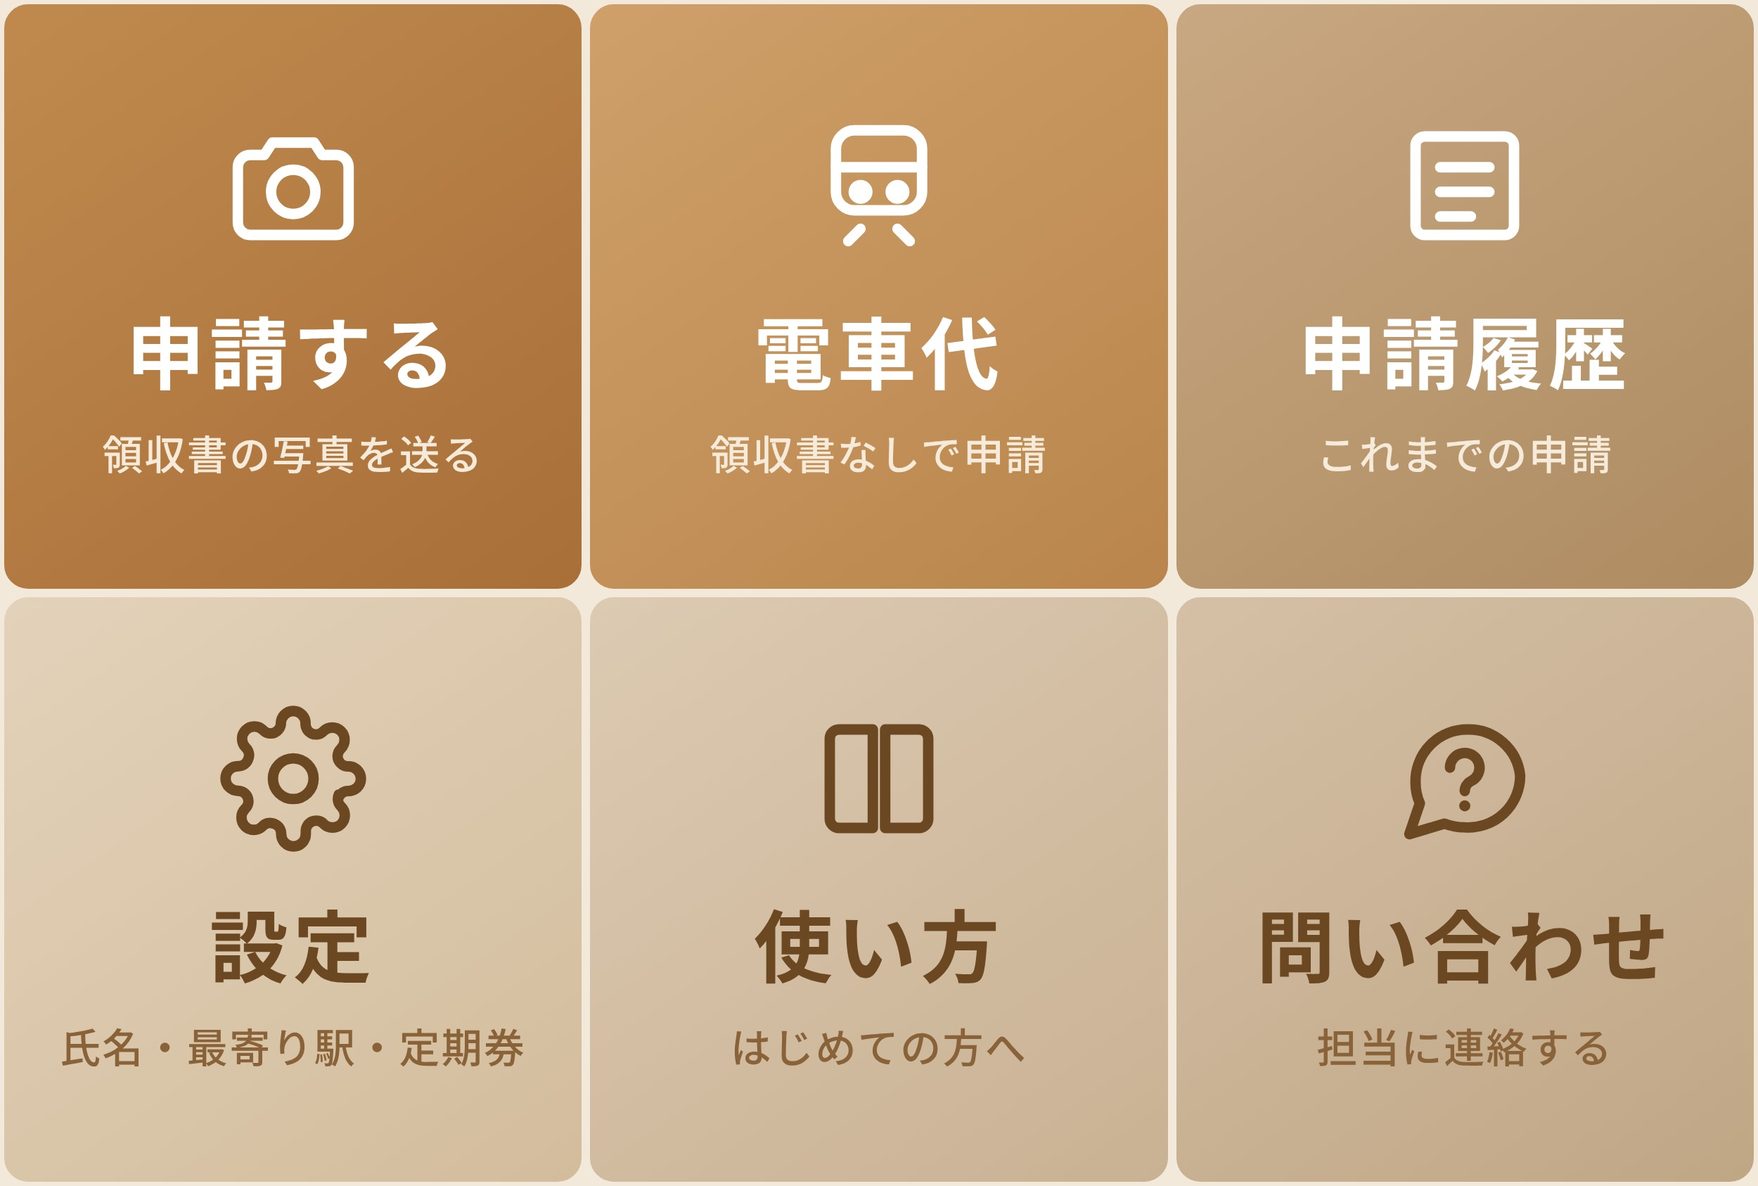
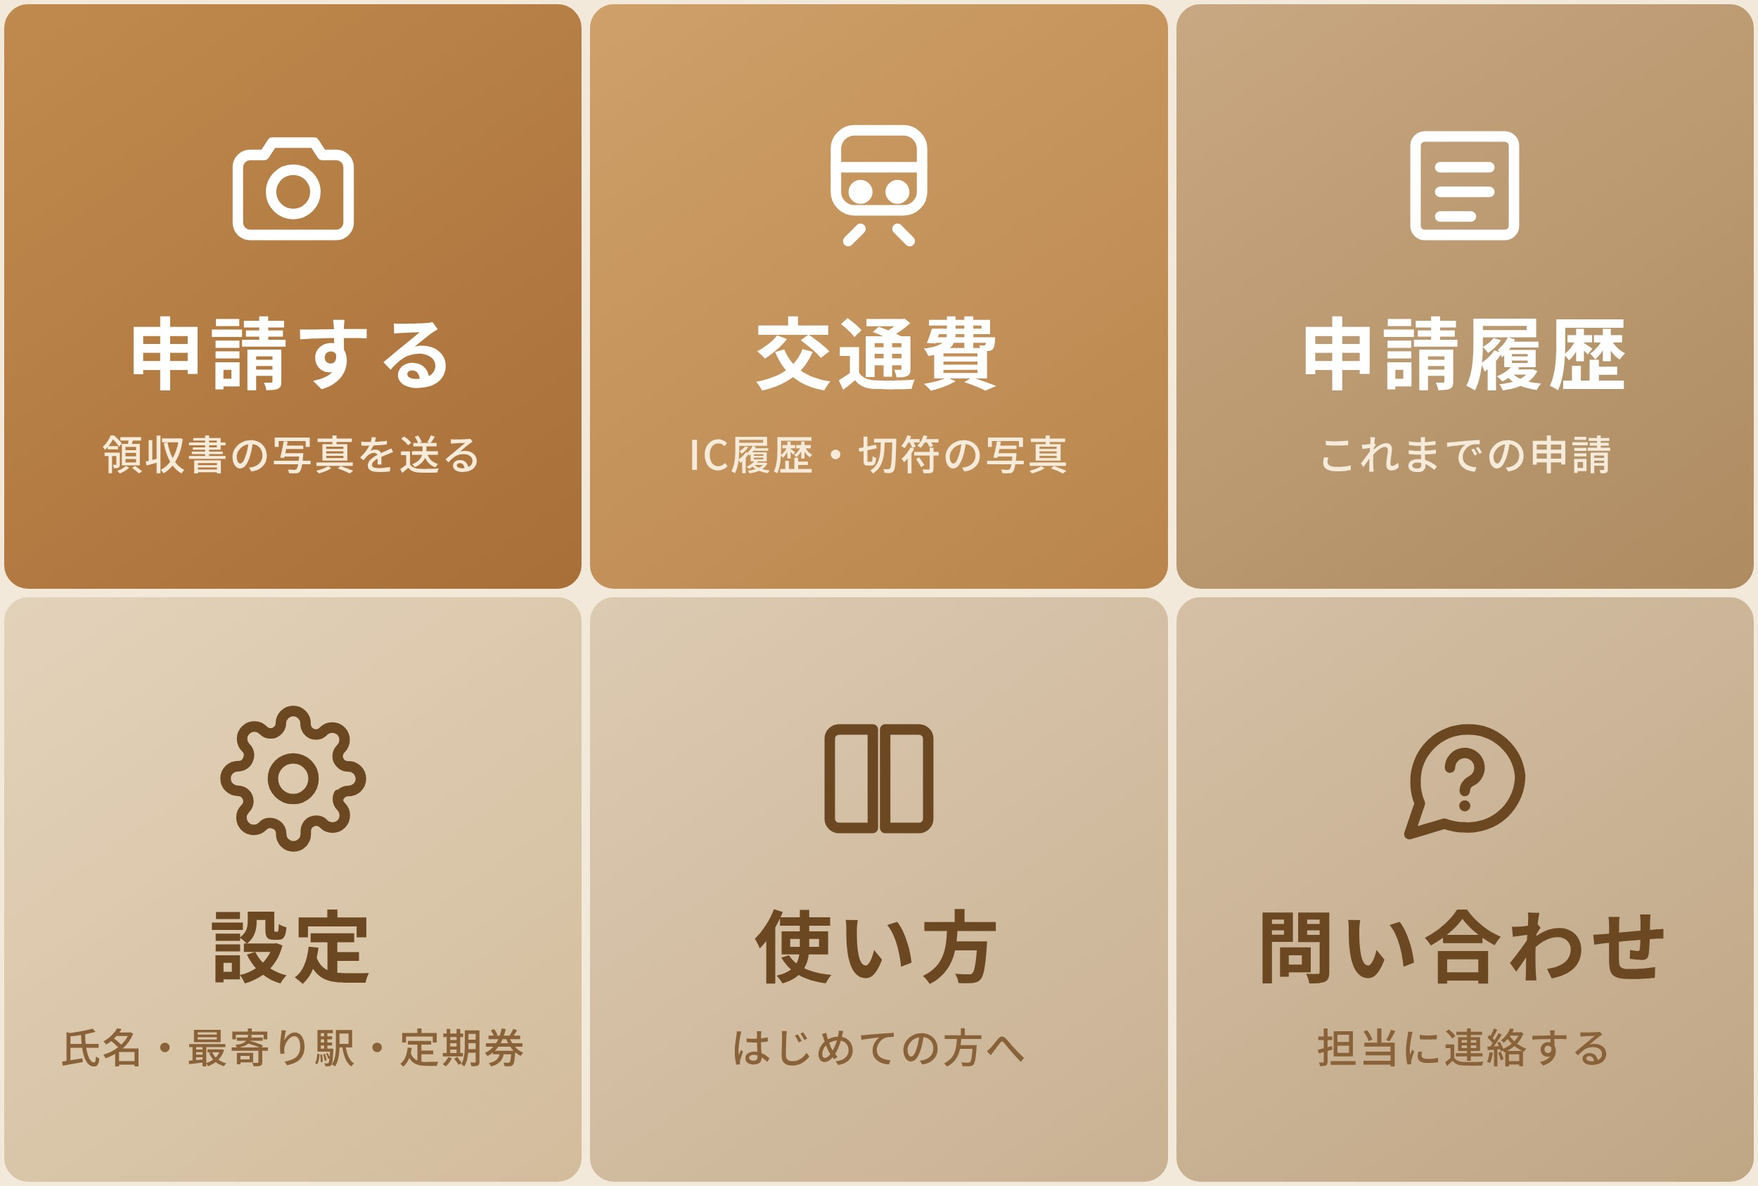
交通費を記録の写真からの申請に一本化し、定期券区間を確認する
運用では領収書（ICカード履歴・切符）が必要だが、「電車代」は
金額をAIで推定し写真を残さない方式だった。記録が残らず、
定期券区間の扱いも曖昧になるため作り直した。

- リッチメニューの「電車代」を「交通費」に変更。押すと
  ICカード履歴・切符・領収書・航空券の写真を送る案内を出す
- 電車・地下鉄・バス・飛行機・新幹線をすべて「交通費」に集約。
  遠方の出張でも区分を増やさずに申請できる
- 定期券を登録している方にだけ、交通費の申請時に1タップ確認を挟む
  「この金額に定期券区間の運賃は含まれていますか？」
  ICカードは定期区間を引き落とさないため通常は「含まれていない」。
  「含まれている」「わからない」は保留（hold_reason=pass）にし、
  担当が差し引いてから確定する（通勤手当との二重払いを防ぐ）
- 要対応に「定期券区間」の種別と、含まれていなかった場合に
  そのまま確定するボタンを追加

Claude-Session: https://claude.ai/code/session_01MwNNLXBc1pHkYFQDjCLzWj

Changed region(s): [[0.4056, 0.2467, 0.5616, 0.3393], [0.3744, 0.3701, 0.624, 0.4009]]

diff --git a/src/app/api/line/webhook/route.ts b/src/app/api/line/webhook/route.ts
@@ -45,6 +45,7 @@ import {
   matchStaffByFullName,
   mayHaveCommuterPass,
   normalizePersonName,
+  parseLineProfile,
   stripStationSuffix,
   updateLineProfile,
   type CommuteMethod,
@@ -927,6 +928,14 @@ async function handlePhase2ItemPostback(event: LineEvent, params: URLSearchParam
     return
   }
 
+  // 交通費: 定期券のあるスタッフだけに、定期区間が含まれていないかを確認する。
+  // ICカードは定期区間の運賃を引き落とさないので履歴の金額をそのまま申請してよいが、
+  // 切符を買った場合は定期区間も含まれ、院が払う通勤手当と二重払いになる。
+  if ((item === "transport" || item === "commute") && params.get("pz") === null) {
+    const asked = await askCommuterPassIncluded(event, receiptId, item, courseId)
+    if (asked) return
+  }
+
   // 検定・試験: 合格通知・修了通知の写真があるかを確認する
   if (item === "exam" && params.get("at") === null) {
     await sendLineQuickReply(replyToken, source.userId, examAttachPrompt(), [
@@ -946,7 +955,71 @@ async function handlePhase2ItemPostback(event: LineEvent, params: URLSearchParam
     return
   }
 
-  await sendPhase2Confirm(event, receiptId, item, courseId, params.get("at") === "0")
+  await sendPhase2Confirm(
+    event,
+    receiptId,
+    item,
+    courseId,
+    params.get("at") === "0",
+    params.get("pz") === "1"
+  )
+}
+
+/**
+ * 定期券区間が金額に含まれていないかを確認する。
+ *
+ * 定期券が未登録の方には聞かない（聞いても答えようがないため）。
+ * 戻り値 true＝質問を送った（呼び出し元はここで止める）。
+ */
+async function askCommuterPassIncluded(
+  event: LineEvent,
+  receiptId: string,
+  item: ExpenseItem,
+  courseId: string | null
+): Promise<boolean> {
+  const { replyToken, source } = event
+  const supabase = createServiceClient()
+  const { data } = await supabase
+    .from("staff_receipts")
+    .select("staff_members!inner(line_profile)")
+    .eq("id", receiptId)
+    .maybeSingle()
+  const profile = parseLineProfile(
+    (data as unknown as { staff_members?: { line_profile?: unknown } } | null)?.staff_members?.line_profile
+  )
+  const pass = activeCommuterPass(profile)
+  if (!pass) return false // 定期券なし・未登録の方には聞かない
+
+  const base = `action=p2i&rid=${receiptId}&i=${item}` + (courseId ? `&c=${courseId}` : "")
+  await sendLineQuickReply(
+    replyToken,
+    source.userId,
+    `定期券（${pass.from} ⇄ ${pass.to}）の区間について確認させてください。\n\n` +
+      "この金額に、定期券区間の運賃は含まれていますか？\n\n" +
+      "・ICカードで乗った場合は、定期券区間は引き落とされないため「含まれていない」です\n" +
+      "・切符を買った場合は「含まれている」ことがあります",
+    [
+      {
+        type: "postback",
+        label: "含まれていない",
+        data: `${base}&pz=0`,
+        displayText: "定期券区間は含まれていません",
+      },
+      {
+        type: "postback",
+        label: "含まれている",
+        data: `${base}&pz=1`,
+        displayText: "定期券区間が含まれています",
+      },
+      {
+        type: "postback",
+        label: "わからない",
+        data: `${base}&pz=1`,
+        displayText: "わかりません",
+      },
+    ]
+  )
+  return true
 }
 
 /** 確認カードを送る（支給額・上限・保留の理由をここで見せる） */
@@ -955,7 +1028,8 @@ async function sendPhase2Confirm(
   receiptId: string,
   item: ExpenseItem,
   courseId: string | null,
-  awaitingAttachment: boolean
+  awaitingAttachment: boolean,
+  commuterPassIncluded = false
 ): Promise<void> {
   const { replyToken, source } = event
   try {
@@ -994,6 +1068,7 @@ async function sendPhase2Confirm(
       courseRule: course?.rule ?? null,
       pendingCourseName,
       awaitingAttachment,
+      commuterPassIncluded,
       submittedAt: new Date(receipt.created_at),
     })
 
@@ -1004,7 +1079,8 @@ async function sendPhase2Confirm(
     const okData =
       `action=p2ok&rid=${receiptId}&i=${item}` +
       (course ? `&c=${course.id}` : "") +
-      (awaitingAttachment ? "&at=0" : "")
+      (awaitingAttachment ? "&at=0" : "") +
+      (commuterPassIncluded ? "&pz=1" : "")
     const fixData = `action=fix&rid=${receiptId}`
 
     const card = applicationConfirmCard({
@@ -1072,6 +1148,7 @@ async function handlePhase2ConfirmPostback(event: LineEvent, params: URLSearchPa
   const item = params.get("i") as ExpenseItem | null
   const courseId = params.get("c")
   const awaitingAttachment = params.get("at") === "0"
+  const commuterPassIncluded = params.get("pz") === "1"
   if (!receiptId || !item || !(item in EXPENSE_ITEM_LABELS)) {
     await sendLineMessage(replyToken, source.userId, "⚠ 処理できませんでした。もう一度お試しください。")
     return
@@ -1094,6 +1171,7 @@ async function handlePhase2ConfirmPostback(event: LineEvent, params: URLSearchPa
       courseRule: course?.rule ?? null,
       pendingCourseName,
       awaitingAttachment,
+      commuterPassIncluded,
     }
 
     // 分割（1ファイル複数領収証）は全件を同じ区分で確定する
@@ -1708,9 +1786,18 @@ interface ApplicationMenuItem {
 /** 申請メニューに並べる項目（Quick Reply は最大13個。キャンセルの1枠を除き12件まで） */
 const APPLICATION_MENU: ApplicationMenuItem[] = [
   {
-    key: "train",
-    label: "🚃 電車代（領収書なし）",
+    // 交通費はすべてここに集約する。
+    // 電車・地下鉄・バス・飛行機を区別せず「交通費」1つにまとめ、
+    // ICカードの履歴・切符・領収書の写真から申請してもらう。
+    // 金額を推定する方式はやめた（記録が残らず、定期券区間の扱いも曖昧になるため）。
+    key: "transit",
+    label: "🚃 交通費（電車・地下鉄・飛行機）",
     triggers: [
+      "交通費",
+      "交通費申請",
+      "交通費の申請",
+      "交通費を申請",
+      "こうつうひ",
       "電車代",
       "電車",
       "電車の交通費",
@@ -1722,38 +1809,20 @@ const APPLICATION_MENU: ApplicationMenuItem[] = [
       "電車交通費",
       "電車賃",
       "でんしゃだい",
-    ],
-    start: (event, supabase, staffMembers) => startTrainTransit(event, supabase, staffMembers),
-  },
-  {
-    key: "other",
-    label: "🚌 交通費（バス・車など）",
-    triggers: [
       "交通費その他",
       "その他の交通費",
       "バス代",
       "バス代申請",
       "ガソリン代",
       "駐車場代",
+      "地下鉄",
+      "飛行機",
+      "航空券",
+      "新幹線",
     ],
-    start: (event, supabase, staffMembers) => startOtherTransit(event, supabase, staffMembers),
-  },
-  {
-    key: "transit",
-    label: "🚏 交通費（手段を選ぶ）",
-    triggers: [
-      "交通費",
-      "交通費申請",
-      "交通費の申請",
-      "交通費を申請",
-      "交通費領収書なし",
-      "交通費領収書無し",
-      "領収書なし交通費",
-      "領収書なしの交通費",
-      "領収書無し交通費",
-      "こうつうひ",
-    ],
-    start: (event, supabase, staffMembers) => handleTransitEntry(event, supabase, staffMembers),
+    start: async (event) => {
+      await sendLineMessage(event.replyToken, event.source.userId, TRANSIT_GUIDE_TEXT)
+    },
   },
   {
     key: "receipt",
@@ -1882,6 +1951,27 @@ const FOLLOW_TEXT =
   "（例：南 ひふ子 ／ 南ひふ子）\n※姓と名の間のスペースは、あってもなくても大丈夫です"
 
 /** 領収書の送り方の案内文 */
+/**
+ * 交通費の案内（リッチメニューの「交通費」・「電車代」などで表示）。
+ *
+ * 記録が残る写真を必ず送ってもらう。
+ * ICカードは定期券区間の運賃を引き落とさないため、履歴の写真があれば
+ * 二重払いにならない。切符の場合だけ、あとで1タップ確認する。
+ */
+const TRANSIT_GUIDE_TEXT =
+  "🚃 交通費の申請\n" +
+  "─────────────\n" +
+  "次のどれかの写真を、このトークに送ってください。\n\n" +
+  "・ICカード（ICOCA・PiTaPaなど）の利用履歴の画面\n" +
+  "・切符や領収書\n" +
+  "・新幹線や飛行機のチケット・予約画面\n\n" +
+  "電車・地下鉄・バス・飛行機は、どれも「交通費」で申請できます。\n" +
+  "写真を送ると、区分を選ぶボタンが出ます。\n\n" +
+  "※ICカードで定期券区間を通ったときは、その分はもともと引き落とされません。\n" +
+  "　履歴の金額をそのまま申請してください。\n" +
+  "※切符を買って定期券区間が含まれるときは、申請のときにお尋ねします。\n" +
+  "※金額が読み取りにくいときは、金額の部分がはっきり写るように撮ってください。"
+
 const RECEIPT_GUIDE_TEXT =
   "🧾 領収書の送り方\n" +
   "─────────────\n" +
@@ -2998,7 +3088,7 @@ async function handleTransitText(
       await saveExpensePurpose(supabase, receiptId, purpose)
       await clearTransitSession(supabase, source.userId)
       // 内容の入力は済んだので、そのまま確認画面へ進む（再度聞かない）
-      await sendPhase2Confirm(event, receiptId, (detailKey || "other") as ExpenseItem, null, false)
+      await sendPhase2Confirm(event, receiptId, (detailKey || "other") as ExpenseItem, null, false, false)
       return
     }
     case "other_purpose": {

diff --git a/src/app/staff-reimburse/page.tsx b/src/app/staff-reimburse/page.tsx
@@ -117,7 +117,7 @@ interface Row {
  */
 interface PendingItem {
   id: string
-  kind: "excess" | "course" | "attach" | "incomplete"
+  kind: "excess" | "course" | "attach" | "pass" | "incomplete"
   staffName: string
   courseName: string
   itemLabel: string
@@ -133,6 +133,7 @@ const PENDING_LABELS: Record<PendingItem["kind"], string> = {
   excess: "上限超過",
   course: "講座の確認",
   attach: "添付待ち",
+  pass: "定期券区間",
   incomplete: "未完了",
 }
 
@@ -141,6 +142,7 @@ const PENDING_HELP: Record<PendingItem["kind"], string> = {
   excess: "上限を超えた分を承認するか決めてください。承認するとスタッフへ自動で通知されます。",
   course: "講座マスタに無い講座名で申請されています。/mkadmin の講座マスタで登録・割り当てしてください。",
   attach: "合格通知または修了通知の写真が届いていません。スタッフへ催促してください。",
+  pass: "切符などで定期券区間が含まれている可能性があります。院が通勤手当を払っているため、その区間の運賃を差し引いて承認してください（差し引く額は「金額を指定して承認」で入力できます）。",
   incomplete:
     "領収書は届いていますが、費用区分が選ばれず支給の対象になっていません。本人は申請したつもりの可能性があります。",
 }
@@ -796,6 +798,37 @@ export default function StaffReimbursePage() {
                         {p.kind === "excess" && p.isRepeat && "（2回目以降のため超過分も半額が規程どおりです）"}
                       </p>
                     </div>
+
+                    {/* 定期券区間の確認。含まれていなければそのまま確定できる */}
+                    {p.kind === "pass" && (
+                      <div className="flex flex-col gap-2 sm:w-64 sm:shrink-0">
+                        <Button
+                          size="sm"
+                          disabled={approvingId === p.id}
+                          onClick={() => {
+                            if (
+                              !confirm(
+                                `${p.staffName}さんの交通費 ${yen(p.amount)} を、この金額のまま確定します。\n\n` +
+                                  "定期券区間が含まれていないことを確認してから押してください。\n\nよろしいですか？"
+                              )
+                            ) {
+                              return
+                            }
+                            approveExcess(p, true, 0)
+                          }}
+                        >
+                          {approvingId === p.id ? (
+                            <Loader2 className="size-3.5 animate-spin" />
+                          ) : (
+                            <Check className="size-3.5" />
+                          )}
+                          このまま確定する
+                        </Button>
+                        <p className="text-xs" style={{ color: "var(--muted-foreground)" }}>
+                          定期券区間が含まれていた場合は、下の明細で金額を直してから確定してください。
+                        </p>
+                      </div>
+                    )}
 
                     {/* 未完了は承認・却下が無いため、対応済みにして画面から外せるようにする */}
                     {p.kind === "incomplete" && (

diff --git a/src/lib/subsidy-assess.ts b/src/lib/subsidy-assess.ts
@@ -63,6 +63,13 @@ export interface AssessInput {
   pendingCourseName?: string | null
   /** 資格試験で合格通知・修了通知が未添付か */
   awaitingAttachment?: boolean
+  /**
+   * 交通費の金額に定期券区間の運賃が含まれている可能性があるか。
+   *
+   * ICカードは定期券区間を引き落とさないので通常は false。
+   * 切符を買った場合や本人が分からない場合に true にし、担当の確認待ちにする。
+   */
+  commuterPassIncluded?: boolean
   /** 提出日（20日締めの月割りに使う。既定は今） */
   submittedAt?: Date
   /** 提出月の手動指定（staff_receipts.ai_raw.submission_month） */
@@ -157,7 +164,10 @@ export async function assessSubsidy(input: AssessInput): Promise<AssessResult> {
   //    既受講回数が未登録のまま確定させると、既受講者に全額を支給してしまうため保留する。
   //    入力漏れでも過大支給にならないよう、登録が無い＝保留とする（0回の登録とは区別する）。
   let holdReason: HoldReason | null = null
-  if (input.awaitingAttachment) holdReason = "attach"
+  // 定期券区間が金額に含まれている可能性があるものは、院が払う通勤手当との
+  // 二重払いになるため自動で確定させない（差し引く額は担当が判断する）。
+  if (input.commuterPassIncluded) holdReason = "pass"
+  else if (input.awaitingAttachment) holdReason = "attach"
   else if (input.pendingCourseName && !input.courseId) holdReason = "course"
   else if (!registered.registered && item === "tuition") holdReason = "history"
   else if (result.needsDecision) holdReason = "undecided"

diff --git a/src/lib/subsidy-rules.ts b/src/lib/subsidy-rules.ts
@@ -353,7 +353,7 @@ export function calcStoredSubsidy(row: {
 /* ---------- 保留の理由 ---------- */
 
 /** 確定していない理由。NULL（確定済み）以外は税理士提出・支給集計に含めない */
-export type HoldReason = "excess" | "course" | "attach" | "undecided" | "history"
+export type HoldReason = "excess" | "course" | "attach" | "undecided" | "history" | "pass"
 
 export const HOLD_REASON_LABELS: Record<HoldReason, string> = {
   excess: "上限超過の承認待ち",
@@ -361,6 +361,7 @@ export const HOLD_REASON_LABELS: Record<HoldReason, string> = {
   attach: "合格通知の添付待ち",
   undecided: "支給率が未定（担当の判断待ち）",
   history: "既受講回数が未登録（担当の登録待ち）",
+  pass: "定期券区間を含む可能性（担当の確認待ち）",
 }
 
 /** スタッフに見せる保留の説明 */
@@ -370,4 +371,5 @@ export const HOLD_REASON_STAFF_TEXT: Record<HoldReason, string> = {
   attach: "合格通知または修了通知の写真を送っていただくと確定します。",
   undecided: "支給額の確認が必要なため、担当が確認のうえご連絡します。",
   history: "受講回数の確認が必要なため、担当が確認のうえご連絡します。",
+  pass: "定期券区間の分を差し引く必要があるため、担当が確認のうえ確定します。",
 }

diff --git a/src/lib/staff-refund-core.ts b/src/lib/staff-refund-core.ts
@@ -83,6 +83,8 @@ export async function settleStaffReceipt(params: {
     courseRule?: CourseRule | null
     pendingCourseName?: string | null
     awaitingAttachment?: boolean
+    /** 交通費の金額に定期券区間が含まれている可能性があるか */
+    commuterPassIncluded?: boolean
   }
 }): Promise<SettleResult> {
   const supabase = params.client ?? createServiceClient()
@@ -187,6 +189,7 @@ export async function settleStaffReceipt(params: {
       courseRule: params.phase2.courseRule ?? null,
       pendingCourseName: params.phase2.pendingCourseName ?? null,
       awaitingAttachment: params.phase2.awaitingAttachment,
+      commuterPassIncluded: params.phase2.commuterPassIncluded,
       submittedAt: new Date((r.created_at as string | null) ?? Date.now()),
       manualSubmissionMonthRaw: r.ai_raw,
     })

diff --git a/public/line/richmenu-source.html b/public/line/richmenu-source.html
@@ -26,7 +26,7 @@
   <div class="cell c2 light">
     <svg viewBox="0 0 24 24" fill="none" stroke="#fff" stroke-width="1.7" stroke-linecap="round" stroke-linejoin="round">
       <rect x="5" y="3" width="14" height="13" rx="3"/><path d="M5 9h14M9 19l-2 2M15 19l2 2"/><circle cx="9" cy="13" r="1.1" fill="#fff"/><circle cx="15" cy="13" r="1.1" fill="#fff"/></svg>
-    <div class="label">電車代</div><div class="sub">領収書なしで申請</div>
+    <div class="label">交通費</div><div class="sub">IC履歴・切符の写真</div>
   </div>
   <div class="cell c3 light">
     <svg viewBox="0 0 24 24" fill="none" stroke="#fff" stroke-width="1.7" stroke-linecap="round" stroke-linejoin="round">

diff --git a/src/app/api/staff-reimburse/pending/route.ts b/src/app/api/staff-reimburse/pending/route.ts
@@ -141,6 +141,7 @@ export async function GET() {
         excess: all.filter((i) => i.kind === "excess").length,
         course: all.filter((i) => i.kind === "course").length,
         attach: all.filter((i) => i.kind === "attach").length,
+        pass: all.filter((i) => i.kind === "pass").length,
         incomplete: all.filter((i) => i.kind === "incomplete").length,
       },
     })

diff --git a/src/app/api/line/richmenu/route.ts b/src/app/api/line/richmenu/route.ts
@@ -41,7 +41,7 @@ const HEIGHT = 1686
  */
 const AREAS = [
   { col: 0, row: 0, text: "申請" },
-  { col: 1, row: 0, text: "電車代" },
+  { col: 1, row: 0, text: "交通費" },
   { col: 2, row: 0, text: "申請履歴" },
   { col: 0, row: 1, text: "設定" },
   { col: 1, row: 1, text: "使い方" },
